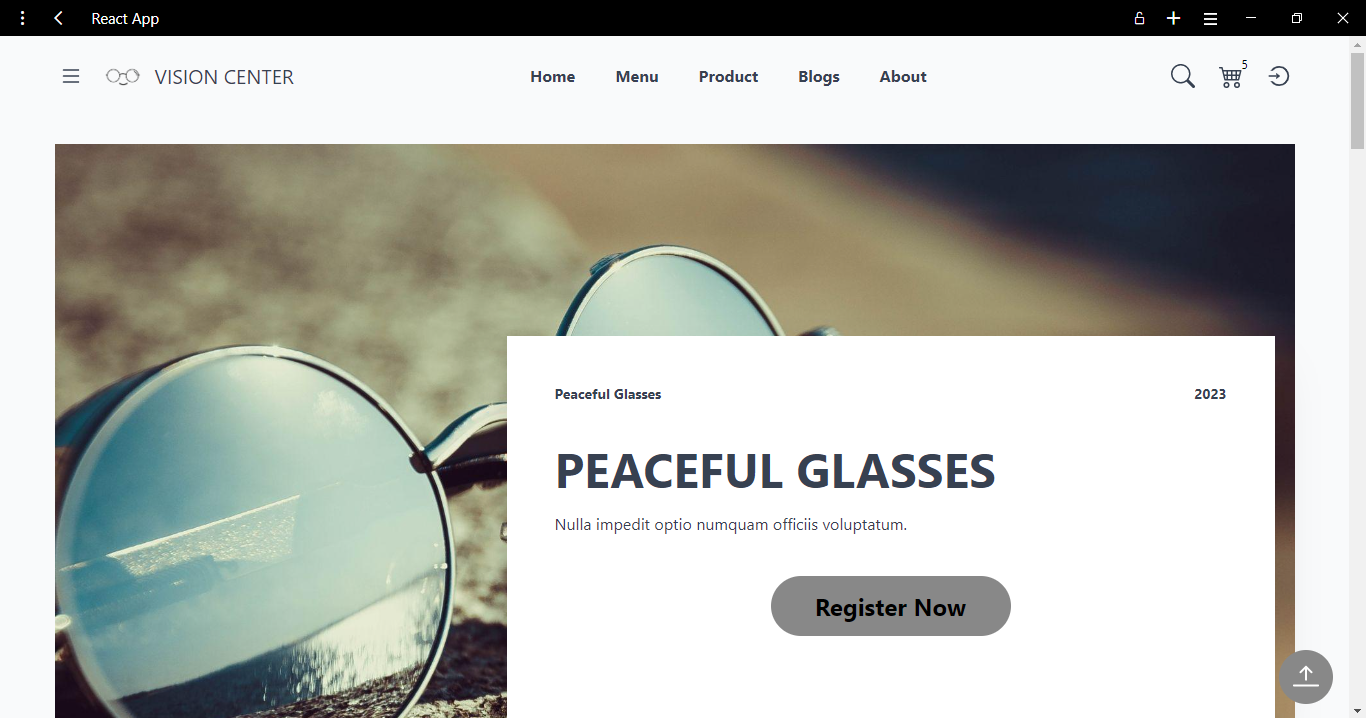
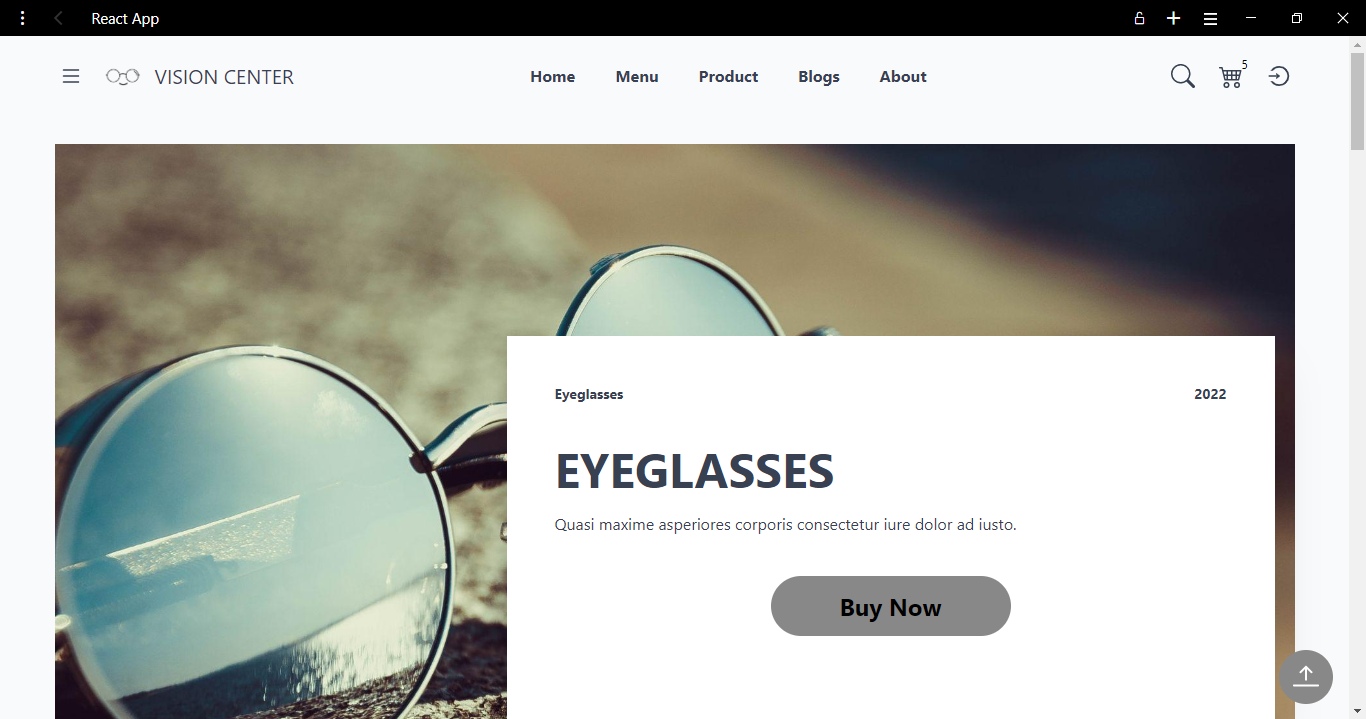
Front fix

diff --git a/src/App.js b/src/App.js
@@ -83,13 +83,13 @@ function App() {
               <img className='xl:max-w=6xl' src={Hero} alt='' />
               <div className='content bg-white md:p-12 p-12 pt-8 lg:max-w-3xl w-full lg:absolute top-48 right-5 shadow-2xl'>
                 <div className='flex justify-between font-bold text-sm'>
-                  <p>Peaceful Glasses</p>
+                  <p>Eyeglasses</p>
                   <p>{faker.date.past().getFullYear()}</p>
                 </div>
-                <h2 className='text-5xl font-bold mt-4 md:mt-10 uppercase'>Peaceful Glasses</h2>
+                <h2 className='text-5xl font-bold mt-4 md:mt-10 uppercase'>Eyeglasses</h2>
                 <p className='pt-5'>{faker.lorem.sentence()}</p>
                 <p className='text-center text-[24px] pt-10 pb-10'>
-                  <button className='p-3 w-60 text-black font-bold rounded-full transform duration-500' style={{ background: '#888888' }}> Register Now </button>
+                  <button className='p-3 w-60 text-black font-bold rounded-full transform duration-500' style={{ background: '#888888' }}> Buy Now </button>
                 </p>
               </div>
             </div>
